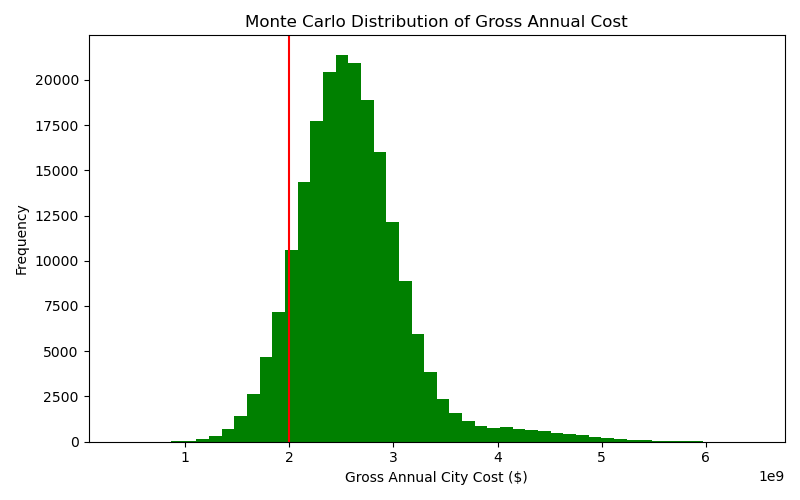
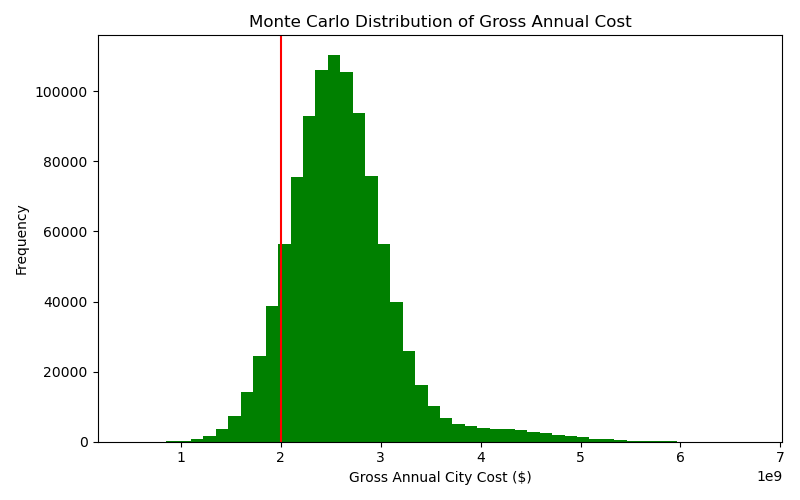
results

diff --git a/mcsim.py b/mcsim.py
@@ -3,12 +3,7 @@ import numpy as np
 import pandas as pd
 import matplotlib.pyplot as plt
 
-import os
-for dirname, _, filenames in os.walk('/kaggle/input'):
-    for filename in filenames:
-        print(os.path.join(dirname, filename))
-
-np.random.seed(42)
+# np.random.seed(42)
 
 # Model Parameters (based on reported claims on policy costs)
 grocery_mean = 60_000_000
@@ -33,7 +28,7 @@ landlord_std = 500_000_000
 budget_threshold = 2_000_000_000
 
 #Run Monte Carlo Trials
-N = 200000
+N = 1000000
 grocery = np.random.normal(grocery_mean, grocery_std, N)
 bus = np.random.normal(free_bus_mean, free_bus_std, N)
 rent = np.random.normal(rent_freeze_mean, rent_freeze_std, N)
